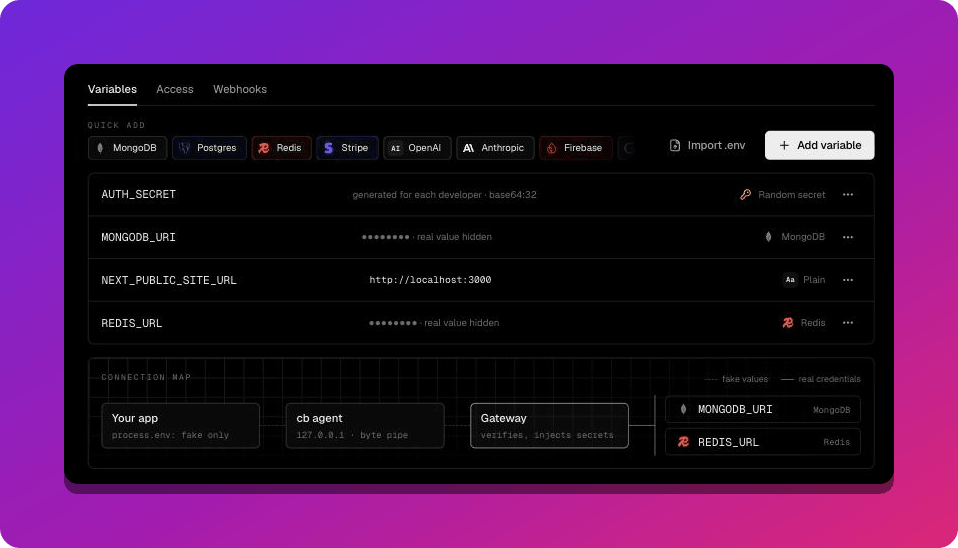
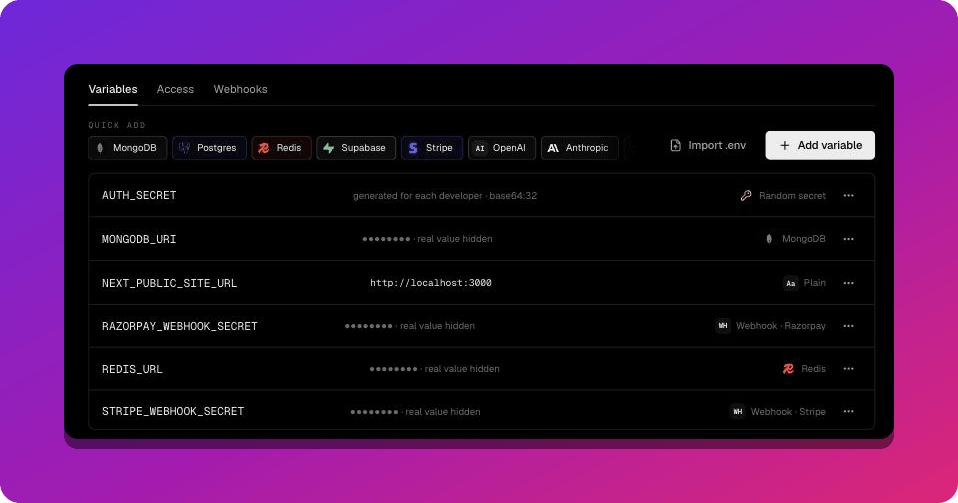
docs(content): Supabase page; Postgres, Redis, OpenRouter and AWS out of Beta after real-cloud runs; recaptured Quick add screens (FR-DOC-006, FR-DOC-008)

diff --git a/src/features/docs/lib/connectors.ts b/src/features/docs/lib/connectors.ts
@@ -10,9 +10,10 @@ export const CONNECTORS: Connector[] = [
   { slug: "random-secret", name: "Random secret", group: "basic", beta: false, logo: "secret" },
   { slug: "shown-as-is", name: "Secret shown as-is", group: "basic", beta: false, logo: "letter:!" },
   { slug: "mongodb", name: "MongoDB", group: "databases", beta: false, logo: "mongodb" },
-  { slug: "postgres", name: "PostgreSQL", group: "databases", beta: true, logo: "postgresql" },
+  { slug: "postgres", name: "PostgreSQL", group: "databases", beta: false, logo: "postgresql" },
   { slug: "mysql", name: "MySQL", group: "databases", beta: true, logo: "mysql" },
-  { slug: "redis", name: "Redis", group: "databases", beta: true, logo: "redis" },
+  { slug: "redis", name: "Redis", group: "databases", beta: false, logo: "redis" },
+  { slug: "supabase", name: "Supabase", group: "databases", beta: false, logo: "supabase" },
   { slug: "stripe", name: "Stripe", group: "payments", beta: false, logo: "stripe" },
   { slug: "razorpay", name: "Razorpay", group: "payments", beta: false, logo: "razorpay" },
   { slug: "openai", name: "OpenAI", group: "ai", beta: true, logo: "letter:AI" },
@@ -20,9 +21,9 @@ export const CONNECTORS: Connector[] = [
   { slug: "gemini", name: "Google Gemini", group: "ai", beta: true, logo: "googlegemini" },
   { slug: "groq", name: "Groq", group: "ai", beta: true, logo: "letter:Gq" },
   { slug: "mistral", name: "Mistral", group: "ai", beta: true, logo: "mistralai" },
-  { slug: "openrouter", name: "OpenRouter", group: "ai", beta: true, logo: "openrouter" },
+  { slug: "openrouter", name: "OpenRouter", group: "ai", beta: false, logo: "openrouter" },
   { slug: "custom-ai", name: "Custom AI (self-hosted)", group: "ai", beta: true, logo: "letter:⌂" },
-  { slug: "aws", name: "AWS (S3, R2, SES, SQS)", group: "cloud", beta: true, logo: "aws" },
+  { slug: "aws", name: "AWS (S3, R2, SES, SQS)", group: "cloud", beta: false, logo: "aws" },
   { slug: "smtp", name: "SMTP email", group: "cloud", beta: true, logo: "mail" },
   { slug: "google", name: "Google sign-in", group: "sign-in", beta: true, logo: "google" },
   { slug: "github", name: "GitHub sign-in", group: "sign-in", beta: true, logo: "github" },

diff --git a/test/features/docs/catalogs.test.tsx b/test/features/docs/catalogs.test.tsx
@@ -5,17 +5,13 @@ import { CONNECTORS } from "@/features/docs/lib/connectors";
 import { PLATFORMS } from "@/features/docs/lib/platforms";
 
 const BETA = [
-  "postgres",
   "mysql",
-  "redis",
   "openai",
   "anthropic",
   "gemini",
   "groq",
   "mistral",
-  "openrouter",
   "custom-ai",
-  "aws",
   "smtp",
   "google",
   "github",
